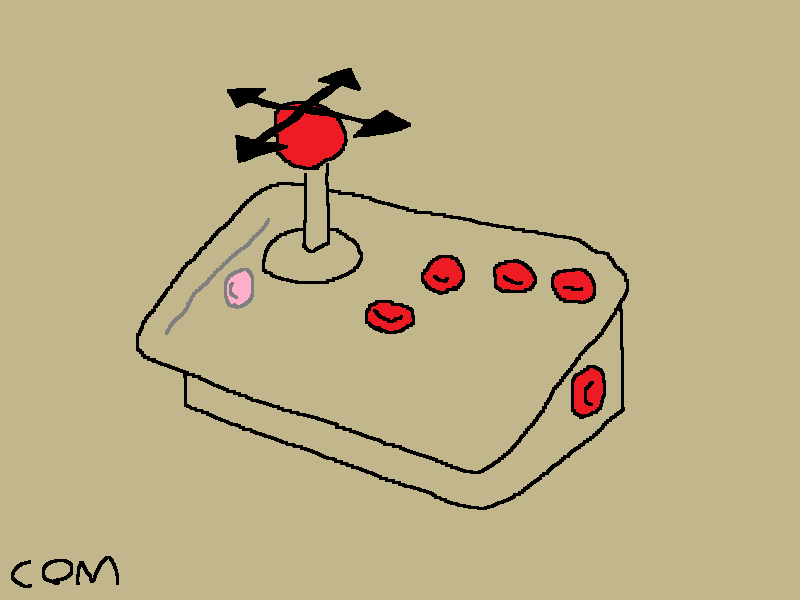
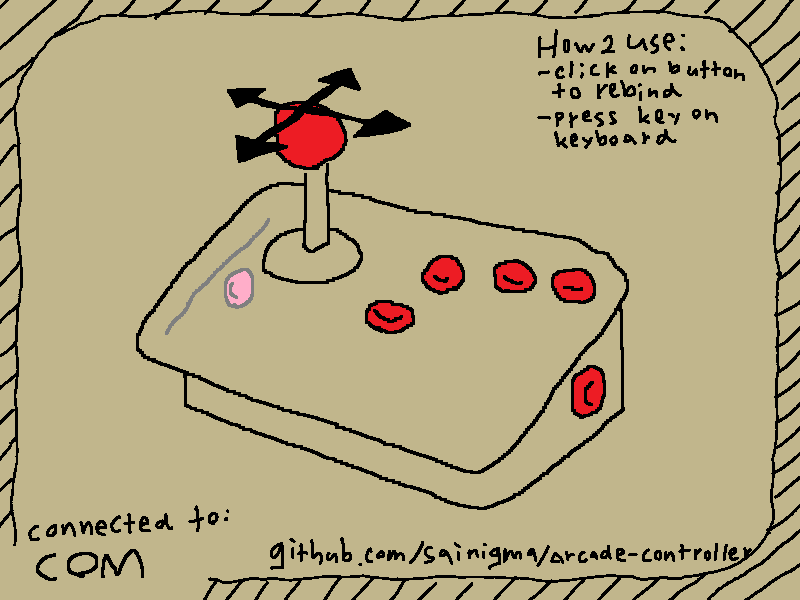
made the gui extremely fancy

diff --git a/keybinder/gui/gui.py b/keybinder/gui/gui.py
@@ -3,10 +3,10 @@ from tkinter import *
 from functools import partial
 #requires tk
 
-UPDATE_MS = int(1000/5)
+UPDATE_MS = int(1000/6)
 
-buttonLabels = ["BUTTON1", "BUTTON2", "BUTTON3", "BUTTON4", "BUTTON5", "BUTTON6", "RIGHT", "UP", "DOWN", "LEFT"]
-buttonPlaces = [(376,248), (430,208), (499,210), (564,218), (190,259), (618,355), (418,87), (348,21), (210,133), (200,46)]
+buttonLabels = ["BUTTON1", "BUTTON2", "BUTTON3", "BUTTON4", "BUTTON5", "BUTTON6", "RIGHT",    "UP",     "DOWN",   "LEFT"]
+buttonPlaces = [(376,248), (430,208), (499,210), (564,218), (180,259), (618,355), (418,115), (348,21), (205,170), (190,66)]
 
 #Maps tk keys to Keyboard.h designations
 with open("json/tkmap.json") as jsonFile:
@@ -45,11 +45,12 @@ class FunkyButton:
 
   def update(self):
     self.canvas.delete("all")
-    self.canvas.create_image(0,0,image=self.buttonbg.getFrame(), anchor="nw")
+    if self.buttonbg != None:
+      self.canvas.create_image(0,0,image=self.buttonbg.getFrame(), anchor="nw")
     self.canvas.create_image(-self.crop[0] * self.size[0] - 2, -self.crop[1] * self.size[1], image=self.bitmapFont.getFrame(), anchor="nw")
 
 class GUI:
-  def __init__(self, glue):
+  def __init__(self, glue, port):
     self.glue = glue
     self.root = Tk()
     self.buttons2 = {}
@@ -57,17 +58,22 @@ class GUI:
     
     self.backgroundAnimation = Animation('graphics/', 'background', 'png', 2)
     self.buttonbg = Animation("graphics/", "button", "png", 2)
-    self.bitmapFont = Animation("graphics/", "font", "png", 1)
+    self.bitmapFont = Animation("graphics/", "font", "png", 2)
 
     self.background = Canvas(master=self.root, width=800, height=600, cursor="arrow", relief='ridge')
     self.background.pack(fill = "both", expand = True)
     self.setBackground(self.backgroundAnimation.getFrame())
     self.addRebindButtons()
+    comport = port.split('COM')[1]
+    self.port = FunkyButton(self.root, (32,32), (160,550), None, self.bitmapFont, None)
+    self.port.crop = self.getFontCrop(comport)
+    self.port.canvas['cursor'] = ''
+    self.port.update()
 
   def getFontCrop(self, key):
     index = 0
     if len(key) == 1:
-      index = ord(key.capitalize())
+      index = ord(key)
     elif key in keymap:
       index = int(keymap[key])
     row = int(index / 16)
@@ -138,6 +144,8 @@ class GUI:
     frame = frame + 1
     self.backgroundAnimation.update()
     self.buttonbg.update()
+    self.bitmapFont.update()
+    self.port.update()
     self.setBackground(self.backgroundAnimation.getFrame())
     for button in self.buttons2:
       self.buttons2[button].update()

diff --git a/keybinder/main.py b/keybinder/main.py
@@ -14,6 +14,6 @@ kbinder = keybinder('Arduino Leonardo')
 
 binding = kbinder.getBinding()
 
-gui = GUI(glue)
+gui = GUI(glue, kbinder.port)
 gui.setBinding(binding)
 gui.start()
